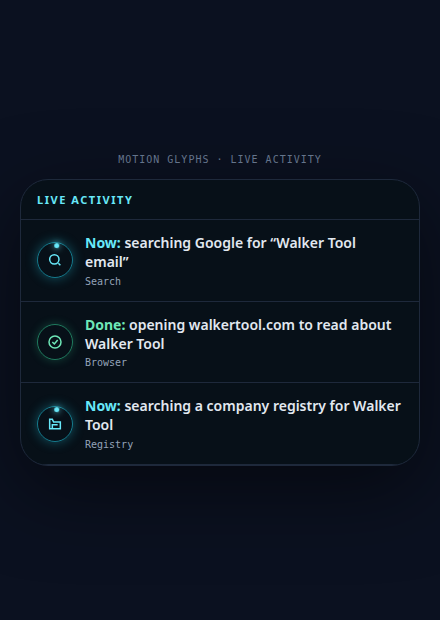
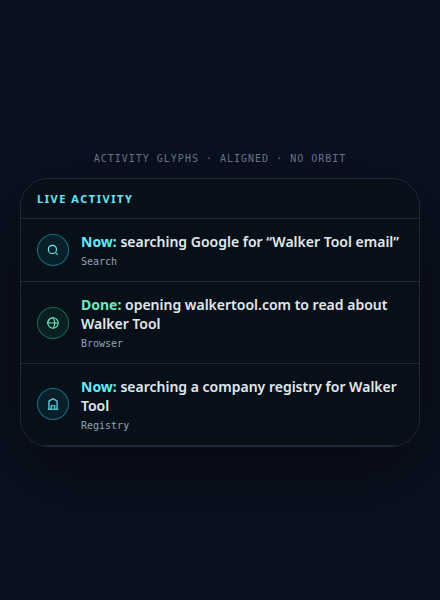
fix(ui): activity glyphs — kill orbit dots, lock alignment
Centered icon-in-circle; color = status; live = opacity breathe only.
No scale/translate/orbit. Activity icon retained on done (not swapped).

diff --git a/artifacts/apex-finder/src/components/activity-glyph.tsx b/artifacts/apex-finder/src/components/activity-glyph.tsx
@@ -1,21 +1,18 @@
 /**
- * Motion glyphs for live research steps — visual “what’s happening”
- * alongside plain-language Now:/Done: stories. Respects reduced motion.
+ * Activity glyphs — quiet, aligned status marks for live research steps.
+ * Icon = class of work. Color = Now / Done / Failed.
+ * No orbiting dots, no layout-shifting pulse.
  */
 import React from "react";
 import {
   Search,
   Globe2,
   Building2,
-  Mail,
   Sparkles,
   Users,
   FileSearch,
-  CheckCircle2,
-  XCircle,
-  Loader2,
 } from "lucide-react";
-import { motionOrNone, prefersReducedMotion, REACTOR_SHIMMER_MS } from "../lib/reactor-motion";
+import { prefersReducedMotion, motionOrNone, REACTOR_SHIMMER_MS } from "../lib/reactor-motion";
 
 export type ActivityKind =
   | "google"
@@ -34,23 +31,43 @@ type Props = {
   className?: string;
 };
 
-function ringColor(live?: boolean, terminal?: "done" | "failed" | null) {
-  if (terminal === "failed") return "rgba(251,113,133,0.55)";
-  if (terminal === "done") return "rgba(52,211,153,0.55)";
-  if (live) return "rgba(34,211,238,0.55)";
-  return "rgba(148,163,184,0.35)";
+type Tone = "live" | "done" | "failed" | "idle";
+
+function toneOf(live?: boolean, terminal?: "done" | "failed" | null): Tone {
+  if (terminal === "failed") return "failed";
+  if (terminal === "done") return "done";
+  if (live) return "live";
+  return "idle";
 }
 
-function iconColor(live?: boolean, terminal?: "done" | "failed" | null) {
-  if (terminal === "failed") return "#fda4af";
-  if (terminal === "done") return "#6ee7b7";
-  if (live) return "#67e8f9";
-  return "#94a3b8";
-}
+const TONE = {
+  live: {
+    fg: "#67e8f9",
+    border: "rgba(34, 211, 238, 0.45)",
+    bg: "rgba(34, 211, 238, 0.08)",
+    glow: "0 0 0 1px rgba(34, 211, 238, 0.12)",
+  },
+  done: {
+    fg: "#6ee7b7",
+    border: "rgba(52, 211, 153, 0.4)",
+    bg: "rgba(52, 211, 153, 0.08)",
+    glow: "none",
+  },
+  failed: {
+    fg: "#fda4af",
+    border: "rgba(251, 113, 133, 0.4)",
+    bg: "rgba(251, 113, 133, 0.08)",
+    glow: "none",
+  },
+  idle: {
+    fg: "#94a3b8",
+    border: "rgba(148, 163, 184, 0.28)",
+    bg: "rgba(148, 163, 184, 0.06)",
+    glow: "none",
+  },
+} as const;
 
-function pickIcon(kind: ActivityKind, terminal?: "done" | "failed" | null) {
-  if (terminal === "failed") return XCircle;
-  if (terminal === "done") return CheckCircle2;
+function pickIcon(kind: ActivityKind) {
   switch (kind) {
     case "google":
     case "serp":
@@ -71,69 +88,51 @@ function pickIcon(kind: ActivityKind, terminal?: "done" | "failed" | null) {
 }
 
 /**
- * Circular activity badge: icon + optional live orbit / pulse.
+ * Fixed 1:1 circular mark. Icon stays centered; live uses a soft opacity
+ * breathe on the *fill only* (no scale, no orbit, no translate).
  */
-export function ActivityGlyph({ kind, live, terminal, size = 28, className = "" }: Props) {
-  const Icon = pickIcon(kind, terminal);
+export function ActivityGlyph({ kind, live, terminal, size = 32, className = "" }: Props) {
+  const Icon = pickIcon(kind);
+  const tone = toneOf(live, terminal);
+  const t = TONE[tone];
   const reduced = prefersReducedMotion();
-  const color = iconColor(live, terminal);
-  const ring = ringColor(live, terminal);
-  const iconSize = Math.max(12, Math.round(size * 0.48));
-  const isLiveMotion = !!live && !terminal && !reduced;
+  const iconSize = Math.round(size * 0.44);
+  const breathe =
+    tone === "live" && !reduced
+      ? motionOrNone(`activityFillBreathe ${REACTOR_SHIMMER_MS * 1.2}ms ease-in-out infinite`)
+      : "none";
 
   return (
     <span
-      className={`relative inline-flex shrink-0 items-center justify-center ${className}`}
-      style={{ width: size, height: size }}
+      className={`inline-flex shrink-0 items-center justify-center ${className}`}
+      style={{
+        width: size,
+        height: size,
+        borderRadius: "999px",
+        border: `1px solid ${t.border}`,
+        background: t.bg,
+        boxShadow: t.glow,
+        animation: breathe,
+        // lock geometry so animation never shifts layout
+        boxSizing: "border-box",
+      }}
       aria-hidden
       data-testid={`activity-glyph-${kind}`}
-      data-live={live ? "true" : "false"}
-      data-terminal={terminal || undefined}
+      data-tone={tone}
     >
-      {/* outer ring */}
-      <span
-        className="absolute inset-0 rounded-full"
-        style={{
-          border: `1.5px solid ${ring}`,
-          boxShadow: live && !terminal ? `0 0 12px ${ring}` : undefined,
-          animation: isLiveMotion
-            ? motionOrNone(`activityPulse ${REACTOR_SHIMMER_MS}ms ease-in-out infinite`)
-            : "none",
-        }}
-      />
-      {/* orbit pip while live */}
-      {isLiveMotion && (
-        <span
-          className="pointer-events-none absolute inset-0"
-          style={{
-            animation: motionOrNone("activityOrbit 2.4s linear infinite"),
-          }}
-        >
-          <span
-            className="absolute left-1/2 top-0 h-1.5 w-1.5 -translate-x-1/2 rounded-full"
-            style={{ background: color, boxShadow: `0 0 6px ${color}` }}
-          />
-        </span>
-      )}
       <Icon
-        style={{
-          width: iconSize,
-          height: iconSize,
-          color,
-          animation:
-            isLiveMotion && (kind === "google" || kind === "serp")
-              ? motionOrNone("activityNudge 1.2s ease-in-out infinite")
-              : isLiveMotion && kind === "prompt"
-                ? motionOrNone("activityNudge 1.6s ease-in-out infinite")
-                : "none",
-        }}
-        strokeWidth={2.25}
+        width={iconSize}
+        height={iconSize}
+        color={t.fg}
+        strokeWidth={2}
+        absoluteStrokeWidth
+        style={{ display: "block", flexShrink: 0 }}
       />
     </span>
   );
 }
 
-/** Compact inline status for chips — tiny glyph, no orbit */
+/** Chip-scale icon — same mapping, no frame */
 export function ActivityGlyphMini({
   kind,
   live,
@@ -143,13 +142,18 @@ export function ActivityGlyphMini({
   live?: boolean;
   terminal?: "done" | "failed" | null;
 }) {
-  const Icon = pickIcon(kind, terminal);
-  const color = iconColor(live, terminal);
+  const Icon = pickIcon(kind);
+  const tone = toneOf(live, terminal);
+  const t = TONE[tone];
   return (
     <Icon
       aria-hidden
-      style={{ width: 12, height: 12, color, flexShrink: 0 }}
-      strokeWidth={2.5}
+      width={12}
+      height={12}
+      color={t.fg}
+      strokeWidth={2.25}
+      absoluteStrokeWidth
+      style={{ display: "block", flexShrink: 0 }}
     />
   );
 }

diff --git a/docs/ui-screenshots-20260814/studio-27-phase-v-glyphs.html b/docs/ui-screenshots-20260814/studio-27-phase-v-glyphs.html
@@ -1,6 +1,6 @@
 <!DOCTYPE html>
 <html lang="en"><head><meta charset="utf-8"/><meta name="viewport" content="width=device-width,initial-scale=1"/>
-<title>Apex Atlas · Phase V glyphs</title>
+<title>Apex Atlas · Activity glyphs (clean)</title>
 <style>
 *{box-sizing:border-box;margin:0;padding:0}
 body{font-family:ui-sans-serif,system-ui,sans-serif;background:#0b1120;color:#e2e8f0;min-height:100vh;display:flex;align-items:center;justify-content:center;padding:28px}
@@ -8,37 +8,35 @@ body{font-family:ui-sans-serif,system-ui,sans-serif;background:#0b1120;color:#e2
 .phone{width:400px;border-radius:28px;border:1px solid #1e293b;background:#071018;overflow:hidden;box-shadow:0 24px 80px rgba(0,0,0,.5)}
 .h{padding:12px 16px;border-bottom:1px solid #1e293b;font-size:11px;font-weight:700;letter-spacing:.14em;text-transform:uppercase;color:#67e8f9}
 .row{display:flex;gap:12px;align-items:center;padding:14px 16px;border-bottom:1px solid #1e293b}
-.glyph{width:36px;height:36px;border-radius:999px;border:1.5px solid rgba(34,211,238,.55);display:flex;align-items:center;justify-content:center;box-shadow:0 0 12px rgba(34,211,238,.35);position:relative;flex-shrink:0}
-.glyph.done{border-color:rgba(52,211,153,.55);box-shadow:0 0 10px rgba(52,211,153,.25)}
-.glyph svg{width:16px;height:16px}
+.glyph{width:32px;height:32px;border-radius:999px;display:flex;align-items:center;justify-content:center;flex-shrink:0;box-sizing:border-box}
+.glyph.live{border:1px solid rgba(34,211,238,.45);background:rgba(34,211,238,.08)}
+.glyph.done{border:1px solid rgba(52,211,153,.4);background:rgba(52,211,153,.08)}
+.glyph svg{display:block}
 .story{font-size:14px;font-weight:600;line-height:1.35}
 .now{color:#67e8f9;font-weight:700}
 .done{color:#6ee7b7;font-weight:700}
 .sub{font-size:10px;color:#94a3b8;margin-top:4px;font-family:ui-monospace,monospace}
-@keyframes orbit{to{transform:rotate(360deg)}}
-.pip{position:absolute;inset:0;animation:orbit 2.4s linear infinite}
-.pip i{position:absolute;left:50%;top:0;width:5px;height:5px;margin-left:-2.5px;border-radius:99px;background:#67e8f9;box-shadow:0 0 6px #67e8f9}
 </style></head>
 <body>
 <div>
-<p class="cap">Motion glyphs · live activity</p>
+<p class="cap">Activity glyphs · aligned · no orbit</p>
 <div class="phone">
   <div class="h">Live activity</div>
   <div class="row">
-    <div class="glyph"><div class="pip"><i></i></div>
-      <svg viewBox="0 0 24 24" fill="none" stroke="#67e8f9" stroke-width="2.25"><circle cx="11" cy="11" r="7"/><path d="M20 20l-3-3"/></svg>
+    <div class="glyph live">
+      <svg width="14" height="14" viewBox="0 0 24 24" fill="none" stroke="#67e8f9" stroke-width="2"><circle cx="11" cy="11" r="7"/><path d="M20 20l-3-3"/></svg>
     </div>
     <div><div class="story"><span class="now">Now:</span> searching Google for “Walker Tool email”</div><div class="sub">Search</div></div>
   </div>
   <div class="row">
     <div class="glyph done">
-      <svg viewBox="0 0 24 24" fill="none" stroke="#6ee7b7" stroke-width="2.25"><circle cx="12" cy="12" r="9"/><path d="M8 12l3 3 5-6"/></svg>
+      <svg width="14" height="14" viewBox="0 0 24 24" fill="none" stroke="#6ee7b7" stroke-width="2"><circle cx="12" cy="12" r="9"/><path d="M3 12a9 9 0 0 1 9-9"/><path d="M12 3c2 2.5 3 5.5 3 9s-1 6.5-3 9"/><path d="M3 12h18"/></svg>
     </div>
     <div><div class="story"><span class="done">Done:</span> opening walkertool.com to read about Walker Tool</div><div class="sub">Browser</div></div>
   </div>
   <div class="row">
-    <div class="glyph"><div class="pip"><i></i></div>
-      <svg viewBox="0 0 24 24" fill="none" stroke="#67e8f9" stroke-width="2.25"><path d="M4 19V5h4l2 4h10v10H4z"/><path d="M8 19v-6h8"/></svg>
+    <div class="glyph live">
+      <svg width="14" height="14" viewBox="0 0 24 24" fill="none" stroke="#67e8f9" stroke-width="2"><path d="M3 21h18"/><path d="M5 21V7l7-4 7 4v14"/><path d="M9 21v-6h6v6"/></svg>
     </div>
     <div><div class="story"><span class="now">Now:</span> searching a company registry for Walker Tool</div><div class="sub">Registry</div></div>
   </div>

diff --git a/artifacts/apex-finder/src/lib/reactor-motion.ts b/artifacts/apex-finder/src/lib/reactor-motion.ts
@@ -102,17 +102,10 @@ input:focus-visible,
   box-shadow: 0 0 20px rgba(251, 113, 133, 0.1);
 }
 @keyframes terminalIn { 0% { opacity: 0; transform: translateY(4px); } 100% { opacity: 1; transform: translateY(0); } }
-@keyframes activityPulse {
-  0%, 100% { opacity: 1; transform: scale(1); }
-  50% { opacity: 0.75; transform: scale(1.06); }
-}
-@keyframes activityOrbit {
-  from { transform: rotate(0deg); }
-  to { transform: rotate(360deg); }
-}
-@keyframes activityNudge {
-  0%, 100% { transform: translateY(0); }
-  50% { transform: translateY(-1px); }
+/* Live glyph: opacity only — never scale/translate (avoids misaligned “dots”) */
+@keyframes activityFillBreathe {
+  0%, 100% { opacity: 1; }
+  50% { opacity: 0.82; }
 }
 @keyframes reachSettle {
   0% { box-shadow: 0 0 32px rgba(52, 211, 153, 0.35), inset 0 1px 0 rgba(167, 243, 208, 0.18); }

diff --git a/docs/design-system/STUDIO_PLAN.md b/docs/design-system/STUDIO_PLAN.md
@@ -590,3 +590,8 @@ Color carries status; words carry action.
 
 ### Rule
 Text says the action; motion shows the class of work.
+
+### Glyph revision (same phase)
+- Removed orbiting pip and scale pulse (misaligned “glow dots”)
+- Icon = work type always (search stays search when done)
+- Live motion: opacity breathe on fill only; geometry locked
